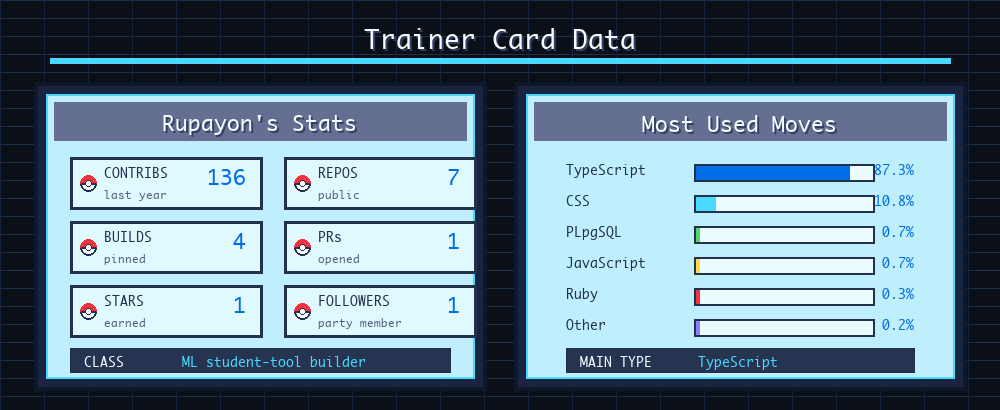
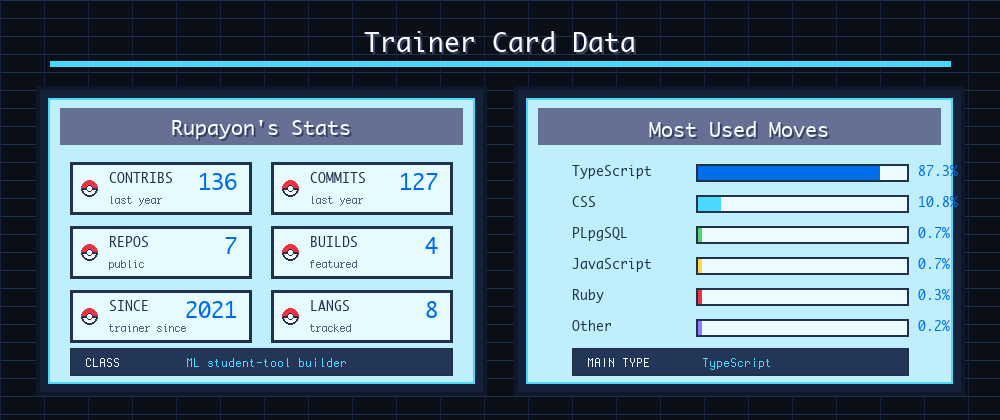
Clean up Pokedex stats card layout

diff --git a/README.md b/README.md
@@ -15,7 +15,7 @@
 ## Trainer Stats
 
 <div align="center">
-  <img src="https://raw.githubusercontent.com/rupayon123/rupayon123/main/assets/pokedex/rupayon-trainer-stats.png?v=pokedex-stats-v2" alt="Rupayon's Pokedex themed GitHub stats and most used languages" width="100%" />
+  <img src="https://raw.githubusercontent.com/rupayon123/rupayon123/main/assets/pokedex/rupayon-trainer-stats.png?v=pokedex-stats-v3" alt="Rupayon's Pokedex themed GitHub stats and most used languages" width="100%" />
 </div>
 
 ## Current Quests
